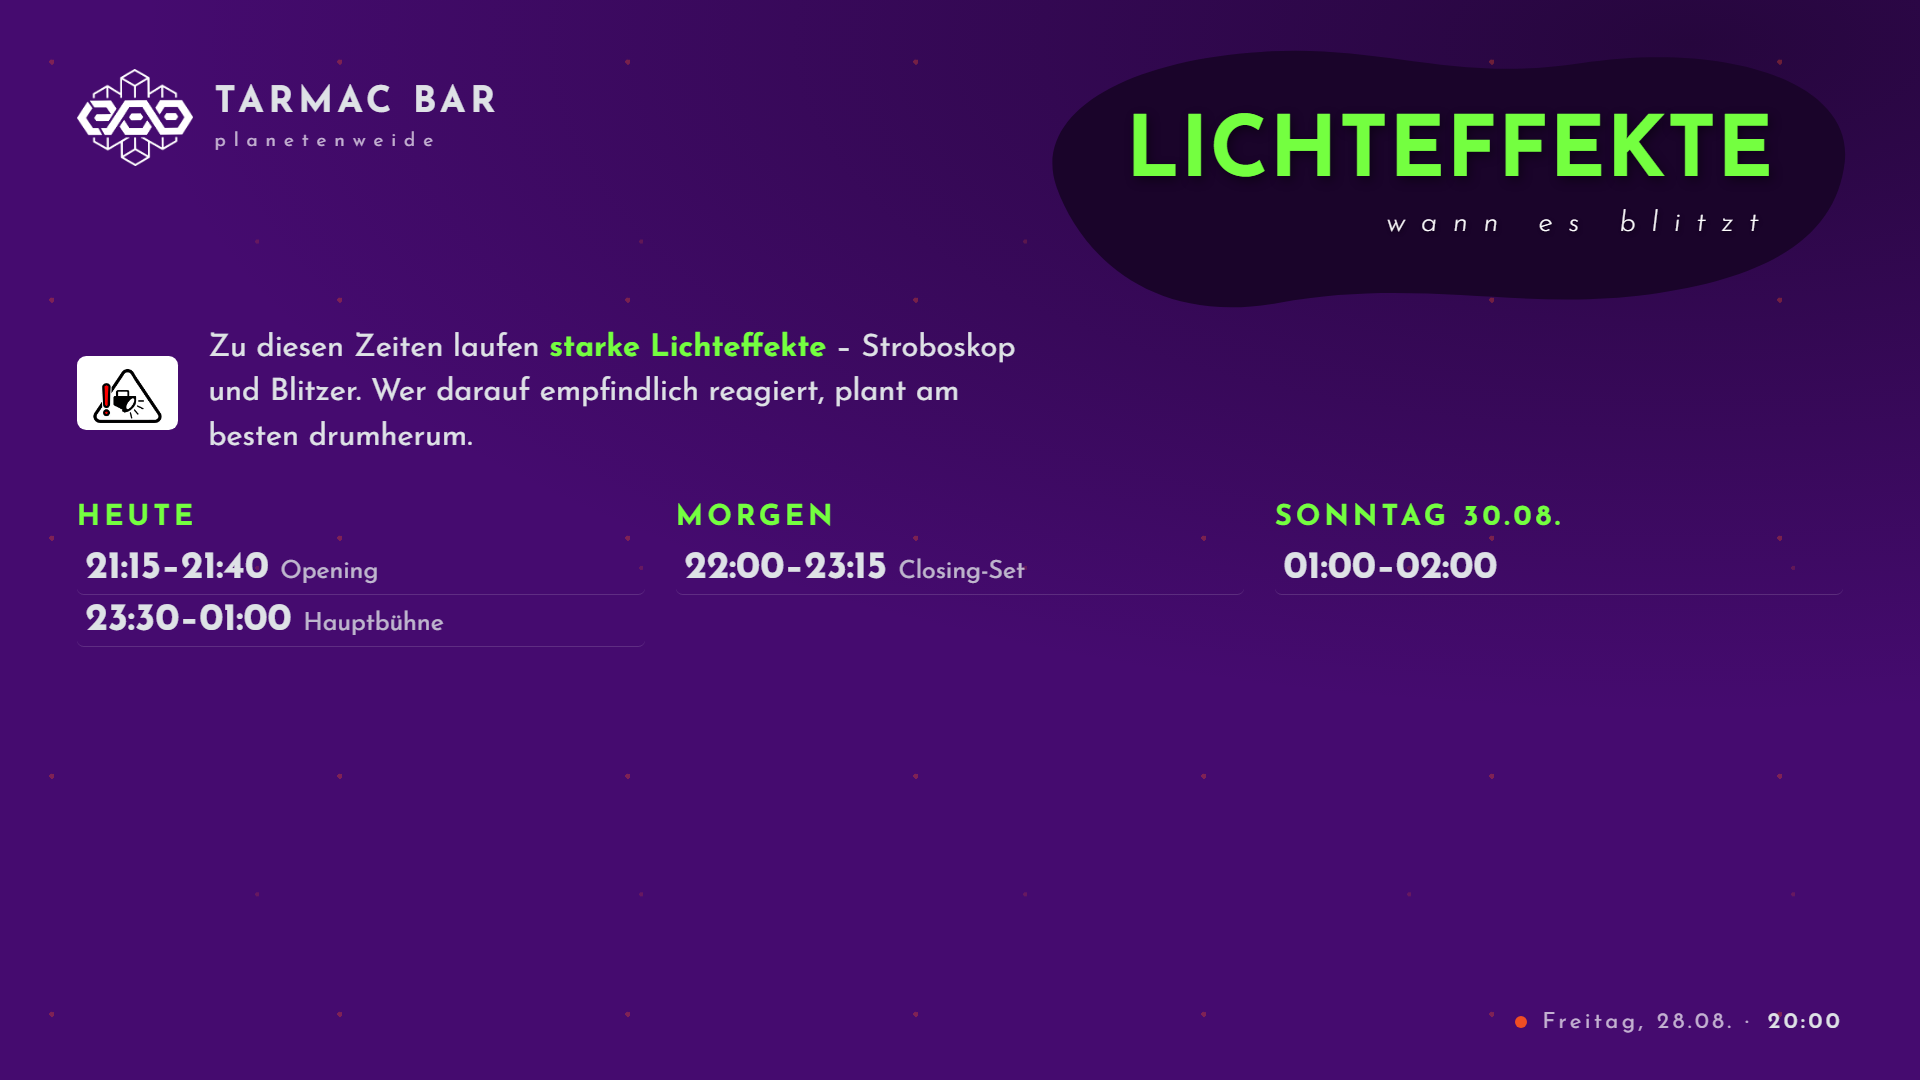
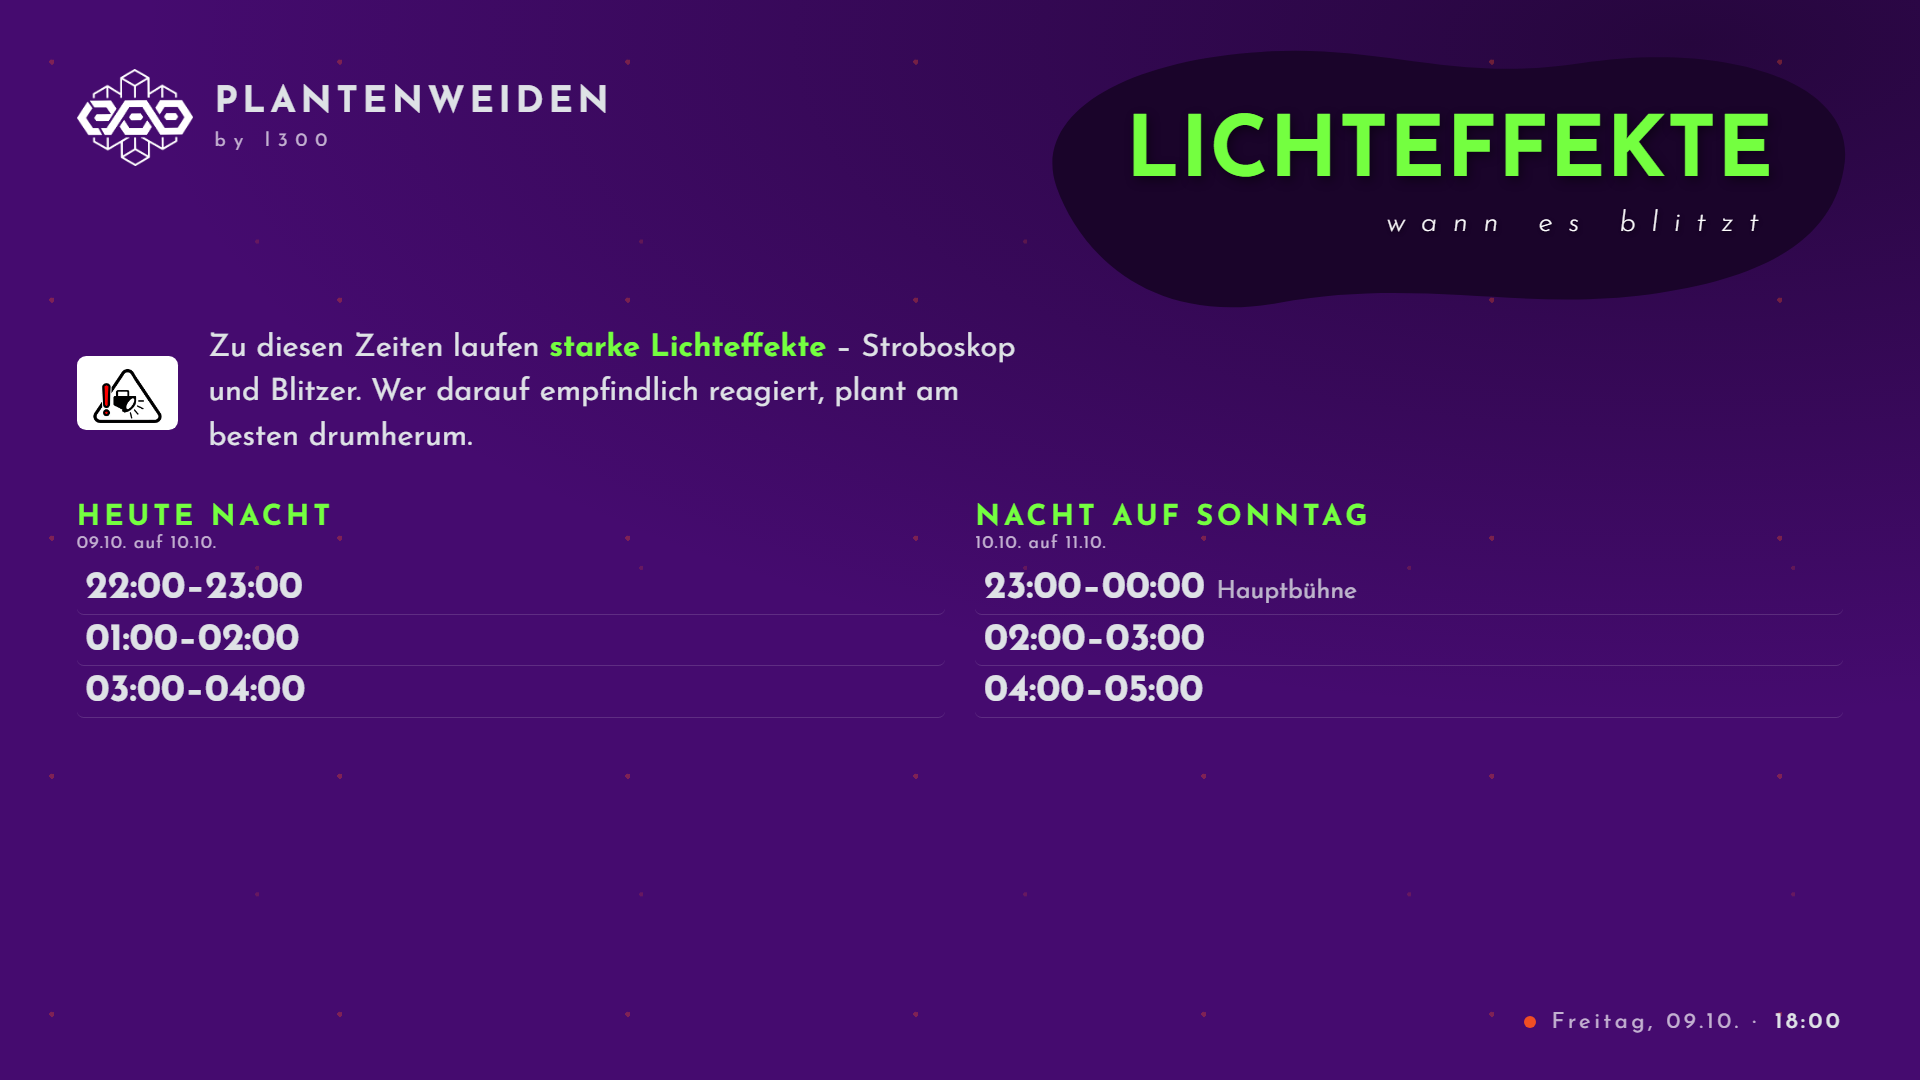
Grundeinstellungen, Naechte statt Kalendertage, Startzeit beim neuen Act
Lichteffekte nach Naechten
- Die Uebersicht gruppierte nach dem Kalendertag des Beginns. Damit stand 01:00
  unter "Samstag", obwohl es zur Freitagnacht gehoert - eine Nacht wurde auf
  zwei Spalten zerrissen. Genau so sah es auf dem Schirm an der Bar aus
- Jetzt nach Naechten, wie in den Ablaufplaenen der Lichtcrew: alles vor 6 Uhr
  zaehlt noch zum Vorabend
- Die laufende heisst HEUTE NACHT, die folgenden NACHT AUF SAMSTAG, darunter
  klein das Datumspaar "09.10. auf 10.10." - dieselbe Schreibweise wie in der
  Doku

    vorher   FREITAG 09.10.   SAMSTAG 10.10.        SONNTAG 11.10.
             22-23            01-02, 03-04, 23-00   02-03, 04-05

    jetzt    HEUTE NACHT           NACHT AUF SONNTAG
             09.10. auf 10.10.     10.10. auf 11.10.
             22-23, 01-02, 03-04   23-00, 02-03, 04-05

Neuer Act faengt da an, wo der vorige aufhoert
- Ein Timetable wird der Reihe nach eingetippt. Startzeit und Datum stehen jetzt
  schon drin, wenn man einen Act anlegt
- Ueber Mitternacht wandert das Datum mit: nach einem Act 23:00-00:00 am 10.09.
  steht beim naechsten der 11.09. und 00:00. Von Hand ist genau das die Stelle,
  an der man sich vertut
- Ohne Endzeit beim vorigen bleibt die Startzeit leer statt zu raten

Beschriftungen
- "Name der Bar" heisst "Floor- oder Bar-Name" - ein Floor traegt hier genauso
  seinen Namen wie ein Getraenkestand
- "Untertitel" heisst "Zweite Zeile darunter", mit Beispiel und Erklaerung: es
  ist der kleine Zusatz unter dem Namen
[…]

diff --git a/test/schedule.test.js b/test/schedule.test.js
@@ -18,7 +18,7 @@ const { isVideoActive, describeWindows, timetableView, entryStartEnd, dayLabel, 
         wirksameHaeufigkeit, rundeBauen,
         istUebergang, uebergangsAuswahl, uebergangBeutel, uebergangsFolge,
         lichtFenster, lichtTrifft, lichtJetzt, timetableZeilen, lichtUebersicht,
-        lichtSpuren, lichtOhneZeile, lichtOffen, timeLabel,
+        lichtSpuren, lichtOhneZeile, lichtOffen, timeLabel, nachtVon, todayISO,
         preisStil, gruppeHatInhalt, preisGruppen } = ctx;
 // Ein top-level const landet in einem vm-Kontext nicht auf dem globalen
 // Objekt (Funktionsdeklarationen schon). Im Browser sehen die anderen
@@ -621,25 +621,58 @@ check('genau am Ende', !!lichtJetzt(lichtNacht, SA2(1, 0)), false);
   check('aber gemerkt', lichtOhneZeile(zeilen, weit, jetzt).length, 1);
 })();
 
-// Uebersicht fuers Wochenende
+// Uebersicht nach Naechten, nicht nach Kalendertagen
+//
+// Frueher wurde nach dem Kalendertag des Beginns gruppiert. Damit stand 01:00
+// unter "Samstag", obwohl es zur Freitagnacht gehoert - eine Nacht wurde auf
+// zwei Spalten zerrissen. Die Doku der Lichtcrew ordnet nach Naechten, und
+// genau so denkt auch, wer abends davorsteht.
 (function () {
+  const um = (t, h, m) => new Date(2026, 9, t, h, m);
+
+  check('abends gehoert zum eigenen Abend', todayISO(nachtVon(um(9, 22, 0))), '2026-10-09');
+  check('nach Mitternacht noch zum Vorabend', todayISO(nachtVon(um(10, 1, 0))), '2026-10-09');
+  check('kurz vor sechs noch zum Vorabend', todayISO(nachtVon(um(10, 5, 59))), '2026-10-09');
+  check('ab sechs beginnt der neue Tag', todayISO(nachtVon(um(10, 6, 0))), '2026-10-10');
+  check('mittags ebenfalls', todayISO(nachtVon(um(10, 14, 0))), '2026-10-10');
+
+  // Genau die Zeiten vom Schirm an der Bar
   const liste = [
-    { id: 'a', date: '2026-08-28', start: '23:30', end: '01:00', note: 'Hauptbuehne' },
-    { id: 'b', date: '2026-08-28', start: '21:00', end: '21:30' },
-    { id: 'c', date: '2026-08-29', start: '22:00', end: '23:00' },
-    { id: 'd', date: '2026-08-27', start: '22:00', end: '23:00' }   // vorbei
+    { id: 'a', date: '2026-10-09', start: '22:00', end: '23:00' },
+    { id: 'b', date: '2026-10-10', start: '01:00', end: '02:00' },
+    { id: 'c', date: '2026-10-10', start: '03:00', end: '04:00' },
+    { id: 'd', date: '2026-10-10', start: '23:00', end: '00:00' },
+    { id: 'e', date: '2026-10-11', start: '02:00', end: '03:00' },
+    { id: 'f', date: '2026-10-11', start: '04:00', end: '05:00' }
   ];
-  const jetzt = FR2(20, 0);
-  const tage = lichtUebersicht(liste, jetzt);
+  const naechte = lichtUebersicht(liste, um(9, 18, 0));
 
-  check('nach Tagen gruppiert', tage.length, 2);
-  check('Vergangenes faellt heraus', tage.map(t => t.schluessel), ['2026-08-28', '2026-08-29']);
-  check('innerhalb des Tages sortiert', tage[0].zeiten.map(z => z.von), ['21:00', '23:30']);
-  check('Bemerkung kommt mit', tage[0].zeiten[1].hinweis, 'Hauptbuehne');
-  check('nichts laeuft gerade', tage[0].zeiten.some(z => z.laeuft), false);
+  check('zwei Naechte statt drei Kalendertage', naechte.length, 2);
+  check('erste Nacht vollstaendig', naechte[0].zeiten.map(z => z.von),
+        ['22:00', '01:00', '03:00']);
+  check('zweite Nacht vollstaendig', naechte[1].zeiten.map(z => z.von),
+        ['23:00', '02:00', '04:00']);
+  check('die laufende heisst HEUTE NACHT', naechte[0].titel, 'HEUTE NACHT');
+  check('die naechste beim Namen', naechte[1].titel, 'NACHT AUF SONNTAG');
+  check('Datum wie in der Doku', naechte[0].datum, '09.10. auf 10.10.');
 
-  const drin = lichtUebersicht(liste, FR2(21, 10));
-  check('laufende Phase ist markiert', drin[0].zeiten[0].laeuft, true);
+  // Mitten in der Nacht ist immer noch dieselbe Nacht "heute nacht" - um genau
+  // 04:00 waere die Phase 03:00-04:00 schon vorbei und faellt heraus, deshalb
+  // hier halb vier.
+  const spaet = lichtUebersicht(liste, um(10, 3, 30));
+  check('um halb vier immer noch dieselbe Nacht', spaet[0].titel, 'HEUTE NACHT');
+  check('und die gerade laufende ist markiert',
+        spaet[0].zeiten.filter(z => z.laeuft).map(z => z.von), ['03:00']);
+
+  // Vergangenes faellt heraus
+  const danach = lichtUebersicht(liste, um(10, 12, 0));
+  check('die durchgelaufene Nacht ist weg', danach.length, 1);
+  check('und die verbliebene heisst wieder heute nacht', danach[0].titel, 'HEUTE NACHT');
+
+  check('Bemerkung kommt mit',
+        lichtUebersicht([{ id: 'x', date: '2026-10-09', start: '22:00', end: '23:00',
+                           note: 'Hauptbuehne' }], um(9, 18, 0))[0].zeiten[0].hinweis,
+        'Hauptbuehne');
 })();
 
 // Die eigene Seite in der Schleife

diff --git a/test/e2e/bedienseite.spec.js b/test/e2e/bedienseite.spec.js
@@ -393,3 +393,56 @@ test.describe('Aufgeraeumtes Bedienmenue', () => {
     }
   });
 });
+
+test.describe('Timetable eintippen', () => {
+  test('ein neuer Act faengt da an, wo der vorige aufhoert', async ({ page, bar }) => {
+    bar.konfig(beispiel({
+      timetable: [{ id: 'a', date: '2026-09-10', start: '18:00', end: '21:00', act: 'Karaoke' }]
+    }));
+    await page.goto(bar.adresse + '/einstellungen');
+    await page.getByRole('button', { name: 'Timetable', exact: true }).click();
+
+    await page.getByRole('button', { name: '+ Act hinzufügen' }).click();
+    const neu = page.locator('#ttBody tr').last();
+    await expect(neu.locator('[data-f=date]')).toHaveValue('2026-09-10');
+    await expect(neu.locator('[data-f=start]')).toHaveValue('21:00');
+  });
+
+  test('ueber Mitternacht wandert das Datum mit', async ({ page, bar }) => {
+    bar.konfig(beispiel({
+      timetable: [{ id: 'a', date: '2026-09-10', start: '23:00', end: '00:00', act: 'Knolle' }]
+    }));
+    await page.goto(bar.adresse + '/einstellungen');
+    await page.getByRole('button', { name: 'Timetable', exact: true }).click();
+
+    await page.getByRole('button', { name: '+ Act hinzufügen' }).click();
+    const neu = page.locator('#ttBody tr').last();
+    // 00:00 nach einem Act, der um 23:00 anfing, ist schon der Folgetag
+    await expect(neu.locator('[data-f=date]')).toHaveValue('2026-09-11');
+    await expect(neu.locator('[data-f=start]')).toHaveValue('00:00');
+  });
+
+  test('ohne Endzeit beim vorigen bleibt die Startzeit leer', async ({ page, bar }) => {
+    bar.konfig(beispiel({
+      timetable: [{ id: 'a', date: '2026-09-10', start: '18:00', act: 'Offen' }]
+    }));
+    await page.goto(bar.adresse + '/einstellungen');
+    await page.getByRole('button', { name: 'Timetable', exact: true }).click();
+
+    await page.getByRole('button', { name: '+ Act hinzufügen' }).click();
+    const neu = page.locator('#ttBody tr').last();
+    await expect(neu.locator('[data-f=date]')).toHaveValue('2026-09-10');
+    await expect(neu.locator('[data-f=start]')).toHaveValue('');
+  });
+
+  test('der allererste Act bekommt das heutige Datum', async ({ page, bar }) => {
+    bar.konfig(beispiel({ timetable: [] }));
+    await page.goto(bar.adresse + '/einstellungen');
+    await page.getByRole('button', { name: 'Timetable', exact: true }).click();
+
+    await page.getByRole('button', { name: '+ Act hinzufügen' }).click();
+    const neu = page.locator('#ttBody tr').last();
+    await expect(neu.locator('[data-f=date]')).not.toHaveValue('');
+    await expect(neu.locator('[data-f=start]')).toHaveValue('');
+  });
+});

diff --git a/src/common.js b/src/common.js
@@ -715,24 +715,58 @@ function lichtOhneZeile(zeilen, fenster, now) {
  * Anzeigeseite. Vergangenes faellt heraus, damit am Sonntag nicht mehr der
  * Freitag oben steht.
  */
+// Wo endet eine Nacht? Alles vor dieser Stunde zaehlt noch zum Vorabend.
+// Sechs Uhr passt zu dem, was an der Bar passiert: um 04:00 ist noch Freitag,
+// auch wenn der Kalender schon Samstag sagt.
+const NACHT_ENDET_UM = 6;
+
+/** Der Abend, zu dem ein Zeitpunkt gehoert - auf Mitternacht gesetzt. */
+function nachtVon(zeitpunkt) {
+  const d = new Date(zeitpunkt.getTime());
+  if (d.getHours() < NACHT_ENDET_UM) d.setDate(d.getDate() - 1);
+  return new Date(d.getFullYear(), d.getMonth(), d.getDate());
+}
+
+/** "HEUTE NACHT", sonst "NACHT AUF SAMSTAG". */
+function nachtTitel(abend, now) {
+  const morgen = new Date(abend.getFullYear(), abend.getMonth(), abend.getDate() + 1);
+  if (todayISO(abend) === todayISO(nachtVon(now))) return 'HEUTE NACHT';
+  return 'NACHT AUF ' + DAY_NAMES_LONG[morgen.getDay()].toUpperCase();
+}
+
+/** "09.10. auf 10.10." - dieselbe Schreibweise wie in der Doku der Lichtcrew. */
+function nachtDatum(abend) {
+  const morgen = new Date(abend.getFullYear(), abend.getMonth(), abend.getDate() + 1);
+  const kurz = (d) => pad2(d.getDate()) + '.' + pad2(d.getMonth() + 1) + '.';
+  return kurz(abend) + ' auf ' + kurz(morgen);
+}
+
+/**
+ * Uebersicht ueber alle Lichtphasen, nach Naechten gruppiert - fuer die eigene
+ * Anzeigeseite. Vergangenes faellt heraus, damit am Sonntag nicht mehr der
+ * Freitag oben steht.
+ */
 function lichtUebersicht(liste, now) {
-  const tage = [];
+  const naechte = [];
   for (const f of lichtFenster(liste)) {
     if (f.se.end <= now) continue;
-    const schluessel = todayISO(f.se.start);
-    let tag = tage.find(t => t.schluessel === schluessel);
-    if (!tag) {
-      tag = { schluessel, datum: f.se.start, zeiten: [] };
-      tage.push(tag);
+
+    const abend = nachtVon(f.se.start);
+    const schluessel = todayISO(abend);
+    let nacht = naechte.find(n => n.schluessel === schluessel);
+    if (!nacht) {
+      nacht = { schluessel, abend, titel: nachtTitel(abend, now),
+                datum: nachtDatum(abend), zeiten: [] };
+      naechte.push(nacht);
     }
-    tag.zeiten.push({
+    nacht.zeiten.push({
       von: timeLabel(f.se.start),
       bis: timeLabel(f.se.end),
       hinweis: (f.eintrag && f.eintrag.note) || '',
       laeuft: f.se.start <= now && now < f.se.end
     });
   }
-  return tage;
+  return naechte;
 }
 
 // ---------------------------------------------------------------------------

diff --git a/test/e2e/lichteffekte.spec.js b/test/e2e/lichteffekte.spec.js
@@ -265,6 +265,37 @@ test.describe('Eigene Seite fuers Wochenende', () => {
     await expect.poll(() => lauf.includes('licht'), { timeout: 25000 }).toBe(true);
   });
 
+  test('ordnet nach Naechten, nicht nach Kalendertagen', async ({ page, bar }) => {
+    // 01:00 gehoert zur Freitagnacht, nicht zum Samstag. Vorher wurde eine
+    // Nacht auf zwei Spalten zerrissen.
+    bar.konfig(programm({
+      settings: { lichtEvery: 1, lichtDuration: 60, timetableEvery: 0, pricesEvery: 0 },
+      timetable: [], prices: [],
+      lichteffekte: [
+        { id: 'a', date: '2026-08-28', start: '22:00', end: '23:00' },
+        { id: 'b', date: '2026-08-29', start: '01:00', end: '02:00' },
+        { id: 'c', date: '2026-08-29', start: '23:00', end: '00:00' }
+      ]
+    }));
+    await zeitStellen(page, FREITAG_20_UHR);
+    await page.goto(bar.adresse + '/');
+
+    const seite = page.locator('.slide[data-kind=licht]');
+    await expect(seite).toBeVisible();
+    await expect(seite.locator('.lichtTag')).toHaveCount(2);
+
+    const erste = seite.locator('.lichtTag').first();
+    await expect(erste.locator('.lichtDatum')).toContainText('HEUTE NACHT');
+    await expect(erste.locator('.lichtSpanneDatum')).toHaveText('28.08. auf 29.08.');
+    await expect(erste.locator('.lichtSpanne')).toHaveCount(2);
+    await expect(erste).toContainText('22:00–23:00');
+    await expect(erste).toContainText('01:00–02:00');
+
+    const zweite = seite.locator('.lichtTag').nth(1);
+    await expect(zweite.locator('.lichtDatum')).toContainText('NACHT AUF SONNTAG');
+    await expect(zweite.locator('.lichtSpanne')).toHaveCount(1);
+  });
+
   test('zeigt die Zeiten nach Tagen, Vergangenes faellt weg', async ({ page, bar }) => {
     bar.konfig(programm({
       settings: { lichtEvery: 1, lichtDuration: 30, timetableEvery: 0, pricesEvery: 0 },

diff --git a/src/settings.html b/src/settings.html
@@ -349,17 +349,22 @@
         <div class="card">
           <h2>Beschriftung</h2>
           <label class="field">
-            <span>Name der Bar</span>
-            <input type="text" id="s_barName" maxlength="40">
-            <em>Leer lassen, wenn nur das Logo zu sehen sein soll.</em>
+            <span>Floor- oder Bar-Name</span>
+            <input type="text" id="s_barName" maxlength="40" placeholder="z.B. L300 oder Hangar-Bar">
+            <em>Steht oben links neben dem Logo. Leer lassen, wenn dort nur das
+                Logo zu sehen sein soll.</em>
           </label>
           <label class="field">
-            <span>Untertitel</span>
-            <input type="text" id="s_subtitle" maxlength="40">
+            <span>Zweite Zeile darunter</span>
+            <input type="text" id="s_subtitle" maxlength="40" placeholder="z.B. by L300">
+            <em>Kleiner Zusatz unter dem Namen &ndash; Betreiber, Ort oder Motto.</em>
           </label>
+          <p class="hint" style="margin:0.2rem 0 0.9rem">Die folgenden Paare sind
+             die &Uuml;berschriften der Info-Seiten: gro&szlig; rechts oben, die
+             Unterzeile klein darunter.</p>
           <div class="twoCol">
             <label class="field">
-              <span>Titel Timetable-Slide</span>
+              <span>Timetable-Seite</span>
               <input type="text" id="s_timetableTitle" maxlength="24">
             </label>
             <label class="field">
@@ -369,7 +374,7 @@
           </div>
           <div class="twoCol">
             <label class="field">
-              <span>Titel Preis-Slide</span>
+              <span>Karten-Seite</span>
               <input type="text" id="s_pricesTitle" maxlength="24">
             </label>
             <label class="field">

diff --git a/src/settings.js b/src/settings.js
@@ -722,12 +722,7 @@ function wireButtons() {
 
   $('addAct').addEventListener('click', () => {
     state.timetable = state.timetable || [];
-    const last = state.timetable[state.timetable.length - 1];
-    state.timetable.push({
-      id: uid(),
-      date: last ? last.date : todayISO(),
-      start: '', end: '', act: '', info: ''
-    });
+    state.timetable.push(naechsterAct(state.timetable[state.timetable.length - 1]));
     markDirty();
     renderTimetable();
   });
@@ -1978,6 +1973,31 @@ async function essFotoWaehlen(zelle, eintrag, neuZeichnen) {
   delete eintrag.crop;
   markDirty();
   neuZeichnen();
+}
+
+// Ein Timetable wird der Reihe nach eingetippt: ein Act faengt da an, wo der
+// vorige aufhoert. Das von Hand nachzutragen ist Tipparbeit, die sich vermeiden
+// laesst - und ueber Mitternacht hinweg auch fehleranfaellig ist, weil dann das
+// Datum umspringt.
+function naechsterAct(vorheriger) {
+  const neu = { id: uid(), date: todayISO(), start: '', end: '', act: '', info: '' };
+  if (!vorheriger) return neu;
+
+  neu.date = vorheriger.date || neu.date;
+
+  const se = entryStartEnd(vorheriger);
+  if (se && se.end) {
+    // se.end ist ein echter Zeitpunkt - ueber Mitternacht steht dort schon der
+    // Folgetag, das Datum wandert also von allein mit.
+    neu.date = todayISO(se.end);
+    neu.start = zeitAnzeige(zweistelligeZeit(se.end));
+  }
+  return neu;
+}
+
+function zweistelligeZeit(d) {
+  const zwei = (n) => String(n).padStart(2, '0');
+  return zwei(d.getHours()) + ':' + zwei(d.getMinutes());
 }
 
 function moveCat(i, dir) {

diff --git a/src/player.js b/src/player.js
@@ -968,8 +968,11 @@ function renderLicht() {
   } else {
     body += '<div class="lichtTage">';
     for (const t of tage) {
+      // Nach Naechten, nicht nach Kalendertagen: 03:00 gehoert zum Vorabend.
+      // So steht es auch in der Doku der Lichtcrew.
       body += '<div class="lichtTag"><div class="lichtDatum">' +
-        escapeHtml(dayLabel(t.datum, new Date())) + '</div>';
+        escapeHtml(t.titel) + '<span class="lichtSpanneDatum">' +
+        escapeHtml(t.datum) + '</span></div>';
       for (const z of t.zeiten) {
         body += '<div class="lichtSpanne' + (z.laeuft ? ' laeuft' : '') + '">' +
           '<span class="lz">' + z.von + '&ndash;' + z.bis + '</span>' +

diff --git a/src/player.css b/src/player.css
@@ -1110,6 +1110,16 @@ body.spar .lichtBalken { background: none; }
   color: var(--accent);
   margin-bottom: 0.4em;
 }
+/* Das Datum der Nacht steht klein darunter - "09.10. auf 10.10." wie in der
+   Doku, damit niemand raten muss, welche Nacht gemeint ist. */
+.lichtSpanneDatum {
+  display: block;
+  font-size: 0.62em;
+  font-weight: 400;
+  letter-spacing: 0.06em;
+  color: var(--muted);
+  margin-top: 0.15em;
+}
 .lichtSpanne {
   display: flex;
   align-items: baseline;

diff --git a/README.md b/README.md
@@ -361,9 +361,16 @@ Tabellenzeile, aus der man sie erst heraussuchen müsste.
 
 ![Laufende Lichtphase](docs/screenshots/anzeige-lichteffekte-jetzt.png)
 
-Optional läuft eine **eigene Seite fürs ganze Wochenende** in der Schleife mit,
-nach Tagen sortiert. Sie ist ab Werk aus; einschalten über *Zeigen nach je…
-Beiträgen* im selben Reiter. Vergangenes fällt von selbst heraus.
+Optional läuft eine **eigene Seite fürs ganze Wochenende** in der Schleife mit.
+Sie ist ab Werk aus; einschalten über *Zeigen nach je… Beiträgen* im selben
+Reiter. Vergangenes fällt von selbst heraus.
+
+Sortiert wird **nach Nächten, nicht nach Kalendertagen** — genau wie in den
+Ablaufplänen der Lichtcrew. Alles vor 6 Uhr zählt noch zum Vorabend: eine Phase
+um 03:00 steht unter der Freitagnacht, nicht unter Samstag. Sonst würde eine
+Nacht auf zwei Spalten zerrissen. Die laufende Nacht heißt **HEUTE NACHT**, die
+folgenden **NACHT AUF SAMSTAG** und so weiter, mit dem Datumspaar klein
+darunter.
 
 ![Übersicht der Lichteffekte](docs/screenshots/anzeige-lichteffekte.png)
 
@@ -541,6 +548,8 @@ Act ist in der Tabelle farbig hinterlegt, vergangene sind ausgegraut.
   ihn ganz ab. **Bilder zählen als Beitrag mit.** Gibt es weniger Beiträge als
   die eingestellte Zahl, kommt der Timetable am Ende jeder Runde — siehe
   [Wie oft die Info-Slides kommen](#wie-oft-die-info-slides-kommen).
+- **+ Act hinzufügen** setzt die Startzeit automatisch auf das Ende des vorigen
+  Acts — über Mitternacht hinweg springt dabei auch das Datum mit.
 - **Foto**: Klick auf *+ Foto* wählt ein Bild, Klick auf die Miniatur tauscht es,
   das rote × entfernt es.
 - **Ausschnitt**: der kleine Knopf unten rechts auf der Miniatur öffnet die
@@ -651,8 +660,9 @@ sonst passt.
 
   Die Höhe ist in Prozent der Bildschirmhöhe angegeben. Sehr breite Logos werden
   zusätzlich in der Breite gedeckelt, damit sie die Kopfzeile nicht sprengen.
-- **Beschriftung**: Bar-Name, Untertitel und die Titel beider Info-Slides. Lässt man den
-  Bar-Namen leer, steht dort nur das Logo.
+- **Beschriftung**: der **Floor- oder Bar-Name** oben links, eine zweite Zeile
+  darunter (Betreiber, Ort oder Motto) und die Überschriften der Info-Seiten.
+  Lässt man den Namen leer, steht dort nur das Logo.
 - **Übergänge**: die Liste zum Anhaken, die Reihenfolge und die beiden Dauern —
   siehe [Übergänge](#übergänge).
 - **Farben, Form & Schrift**: Fläche hinter dem Seitentitel (Blob, Balken oder
